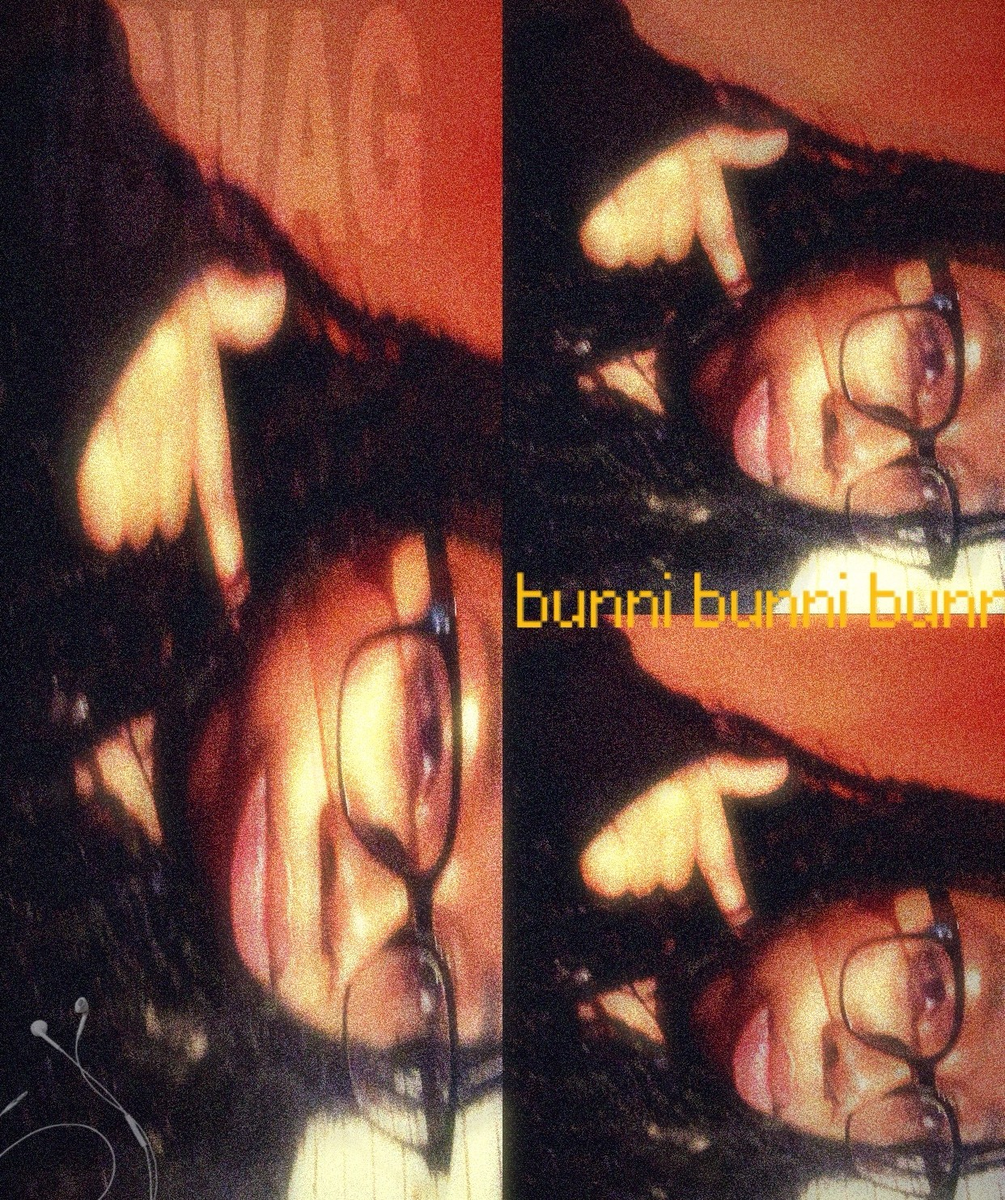
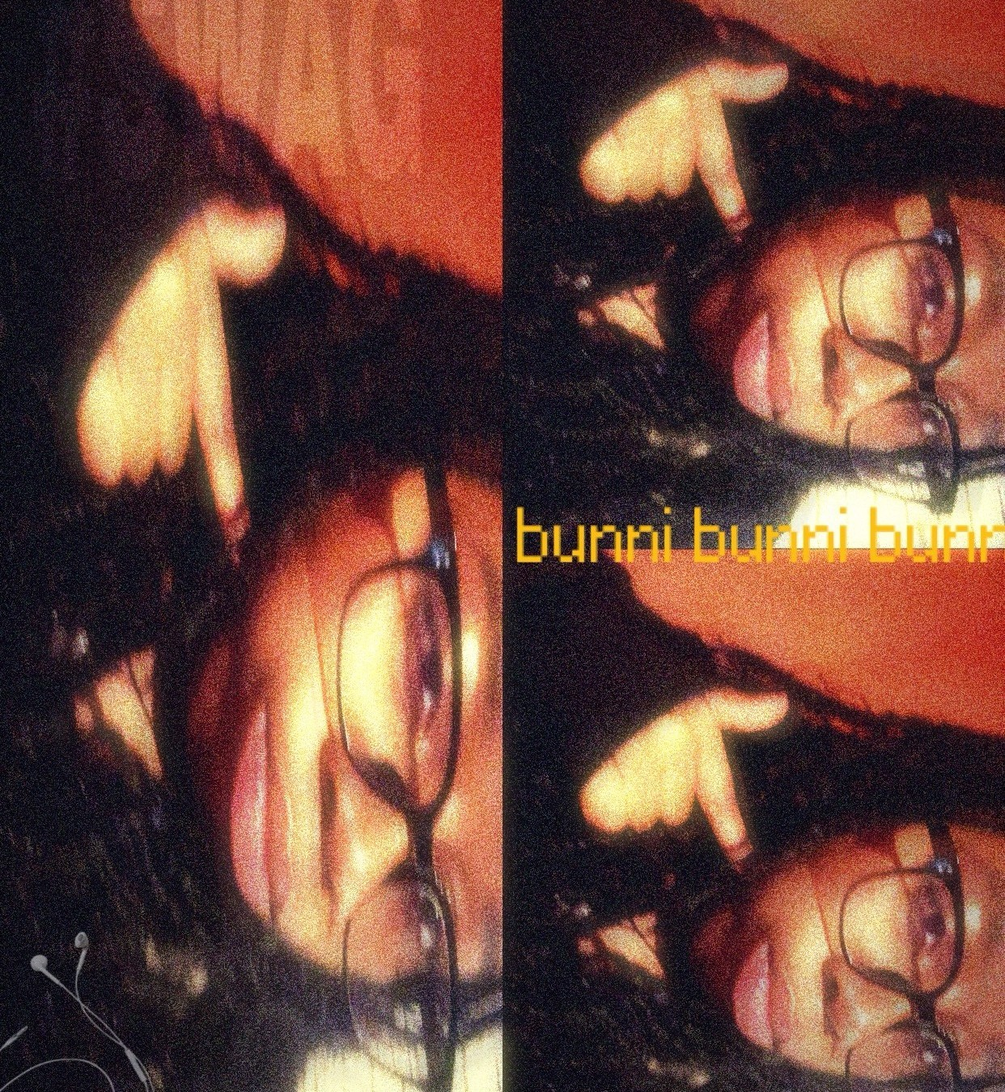
code pour la section a propos

diff --git a/index.html b/index.html
@@ -134,14 +134,9 @@
         <section id="a-propos" class="accueil-a-propos" aria-labelledby="titre-a-propos">
             <img src="./assets/images/style-2.svg" alt="" class="accueil-a-propos__decor" aria-hidden="true">
             <article class="accueil-a-propos__contenu">
-                <h2 id="titre-a-propos" class="accueil-a-propos__titre">
-                    <span class="accueil-a-propos__nom">nurlika</span>
-                    <span class="accueil-a-propos__nom accueil-a-propos__nom--cyan">richard</span>
-                </h2>
-
+                <!-- PREMIÈRE IMAGE DE MOI -->
                 <div class="Images-de-moi">
-
-                    <article class="project-card project-card--nrlka">
+                    <article class="project-card project-card--nrlka1">
                         <header class="project-card__header">
                             <span class="project-card__icon" aria-hidden="true"></span>
                             <h3 class="project-card__title">nrlka.exe</h3>
@@ -152,24 +147,50 @@
                             </div>
                         </header>
                         <div class="project-card__body">
-                            <img src="./assets/images/me-2.jpg" alt="Une première photo de moi" class="image-armorade">
+                            <img src="./assets/images/me-2.jpg" alt="Une première photo de moi" class="image-moi-2">
                         </div>
                         <footer class="project-card__footer">
                             <span class="project-card__status">00</span>
                             <span class="project-card__meta">portfolio / image-nrlka </span>
                         </footer>
                     </article>
-
-
                 </div>
 
-                <p class="accueil-a-propos__texte">
+                <!-- DEUXIÈME IMAGE DE MOI -->
+                <div class="Images-de-moi">
+                    <article class="project-card project-card--nrlka2">
+                        <header class="project-card__header">
+                            <span class="project-card__icon" aria-hidden="true"></span>
+                            <h3 class="project-card__title">nrlka.exe</h3>
+                            <div class="project-card__controls" aria-hidden="true">
+                                <span class="project-card__control project-card__control--minimize"></span>
+                                <span class="project-card__control project-card__control--maximize"></span>
+                                <span class="project-card__control project-card__control--close"></span>
+                            </div>
+                        </header>
+                        <div class="project-card__body">
+                            <img src="./assets/images/me-3.jpg" alt="Une première photo de moi" class="image-moi-1">
+                        </div>
+                        <footer class="project-card__footer">
+                            <span class="project-card__status">00</span>
+                            <span class="project-card__meta">portfolio / image-nrlka </span>
+                        </footer>
+                    </article>
+                </div>
+
+                <div id="titre-a-propos" class="accueil-a-propos__titre">
+                    <span class="accueil-a-propos__prenom">nurlika</span>
+                    <span class="accueil-a-propos__nom">richard</span>
+                    <p class="accueil-a-propos__texte">
                     Lorem ipsum dolor sit amet, <span>consectetur</span> adipisicing elit, sed do eiusmod tempor
                     incididunt ut
                     labore et dolore magna aliqua. <span>Ut enim ad</span> minim veniam, quis nostrud exercitation
                     ullamco
                     laboris nisi ut aliquip ex ea commodo consequat.
                 </p>
+            </div>
+
+                
 
                 <div class="accueil-a-propos__grille">
                     <section class="accueil-a-propos__bloc" aria-labelledby="titre-competences">

diff --git a/css/composants/carte-projet.css b/css/composants/carte-projet.css
@@ -3,14 +3,57 @@
     flex-direction: column;
     width: min(100%, 920px);
     min-height: 560px;
-    overflow: hidden;
     border: 1px solid #1f1f1f;
-    border-radius: 0;
     background: #f6f6f6;
-    box-shadow: 0 2px 0 rgba(0, 0, 0, 0.35), inset 0 1px 0 rgba(255, 255, 255, 0.45);
     color: #111;
-    font-family: "Courier New", Courier, monospace;
+    font-family: "VT323";
 }
+
+.project-card--nrlka1 {
+    display: flex;
+    flex-direction: column;
+    width: 400px;
+    height: 300px;
+    border: 1px solid #1f1f1f;
+    background: #f6f6f6;
+    color: #111;
+    font-family: "VT323";
+}
+
+.project-card--nrlka2 {
+    display: flex;
+    flex-direction: column;
+    position: relative;
+    right: 5rem;
+    top: 10rem;
+    z-index: 1;
+    width: 400px;
+    height: 300px;
+    border: 1px solid #1f1f1f;
+    background: #f6f6f6;
+    color: #111;
+    font-family: "VT323";
+}
+
+/*Image dans la boite de moi*/
+.image-moi-2 {
+    position: relative;
+    top: 0;
+    width: 100%;
+    height: auto;
+    object-fit: contain;
+    padding-top: 2.5rem;
+}
+
+.image-moi-1 {
+    position: relative;
+    top: 0;
+    width: 100%;
+    height: auto;
+    object-fit: contain;
+    padding-top: 2.5rem;
+}
+
 
 .project-card__header {
     display: flex;
@@ -25,6 +68,7 @@
     letter-spacing: 0.08em;
 }
 
+
 /*ICON DOSSIER DANS LA CARTE DES PROJETS*/
 .project-card__icon {
     flex: 0 0 auto;
@@ -35,7 +79,7 @@
 
 .project-card__title {
     margin: 0;
-    font-size: 0.95rem;
+    font-size: 1.4rem;
     font-weight: 700;
     line-height: 1;
 }
@@ -115,7 +159,7 @@
     border-top: 1px solid #9c9c9c;
     background: linear-gradient(180deg, #d7d7d7 0%, #c8c8c8 100%);
     color: #222;
-    font-size: 0.75rem;
+    font-size: 1.3rem;
 }
 
 .project-card__status {
@@ -190,6 +234,8 @@
     scale: 1.7;
     object-fit: contain;
 }
+
+
 
 /*
  * Every card becomes an independently positioned object.

diff --git a/css/layout.css b/css/layout.css
@@ -186,41 +186,46 @@ body {
 
 .accueil-a-propos__contenu {
     display: grid;
-    grid-template-columns: minmax(0, 1fr) minmax(0, 0.8fr);
+    grid-template-columns: 20fr 30fr 50fr;
     gap: 2rem;
     align-items: start;
-    max-width: 1100px;
+    max-width: 1300px;
     margin: 0 auto;
     position: relative;
     z-index: 1;
     background-color: red;
 }
 
+
 .accueil-a-propos__titre {
     display: grid;
-    gap: 0.2rem;
     margin: 0;
     line-height: 0.9;
 }
 
-.accueil-a-propos__nom {
-    color: #0a122a;
+/*nurlika*/
+.accueil-a-propos__prenom {
+    color: var(--texte-color);
     font-family: "Vectroid";
     font-size: clamp(3rem, 5vw, 5rem);
     font-weight: 400;
 }
 
-.accueil-a-propos__nom--cyan {
+/*richard*/
+.accueil-a-propos__nom {
     color: var(--cyan-highlight-color);
-    margin-left: 4rem;
+    margin-left: 5vw;
+    font-family: "VT323";
+    font-size: 85px;
+    font-weight: 400;
 }
 
 .accueil-a-propos__texte {
     max-width: 28rem;
     margin: 2rem 0 0;
-    color: #8b8f9e;
+    color: var(--texte-color);
     font-family: "Gruppo";
-    font-size: clamp(1rem, 1.4vw, 1.15rem);
+    font-size: 26.4px;
     line-height: 1.15;
 }
 
